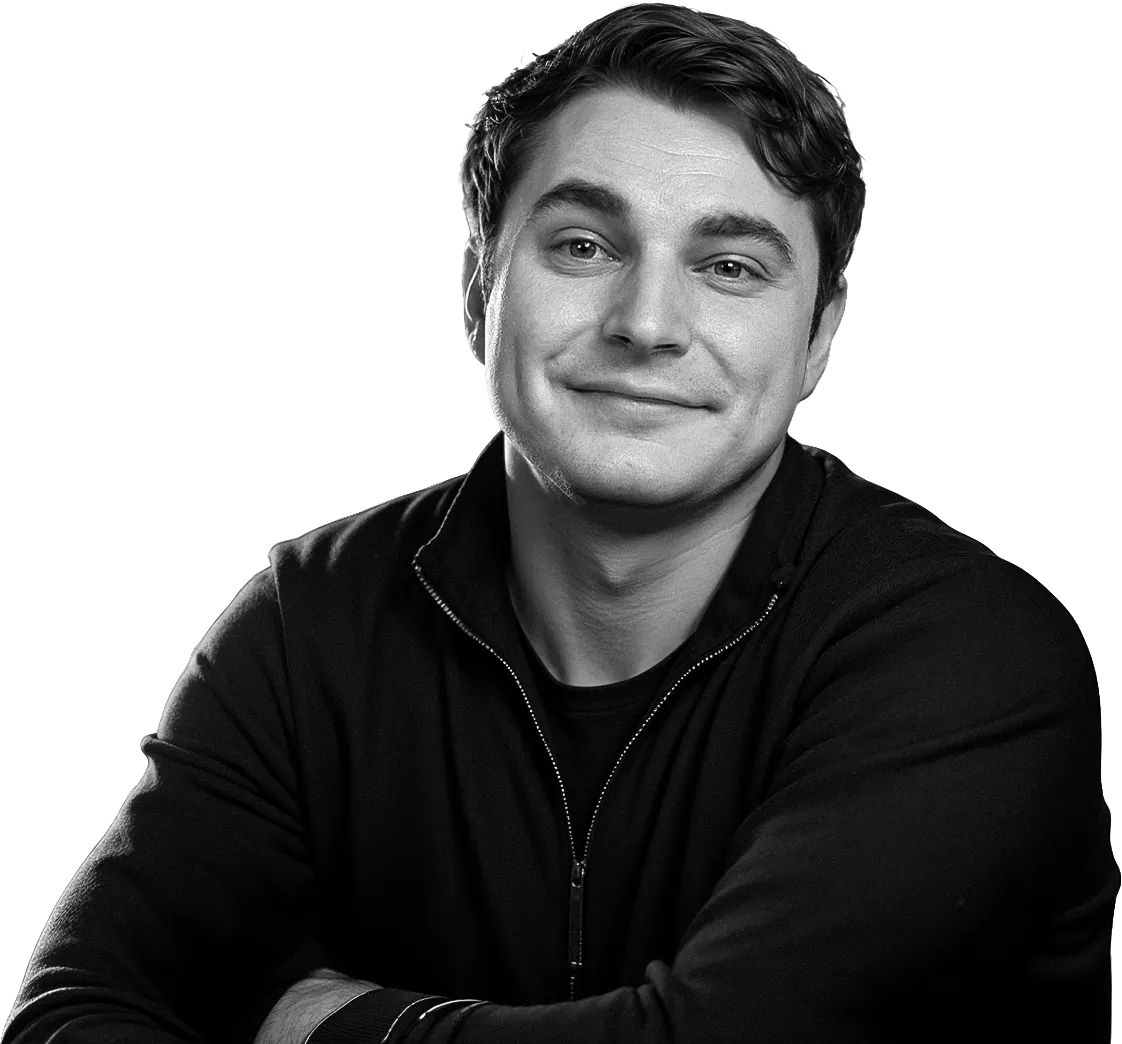
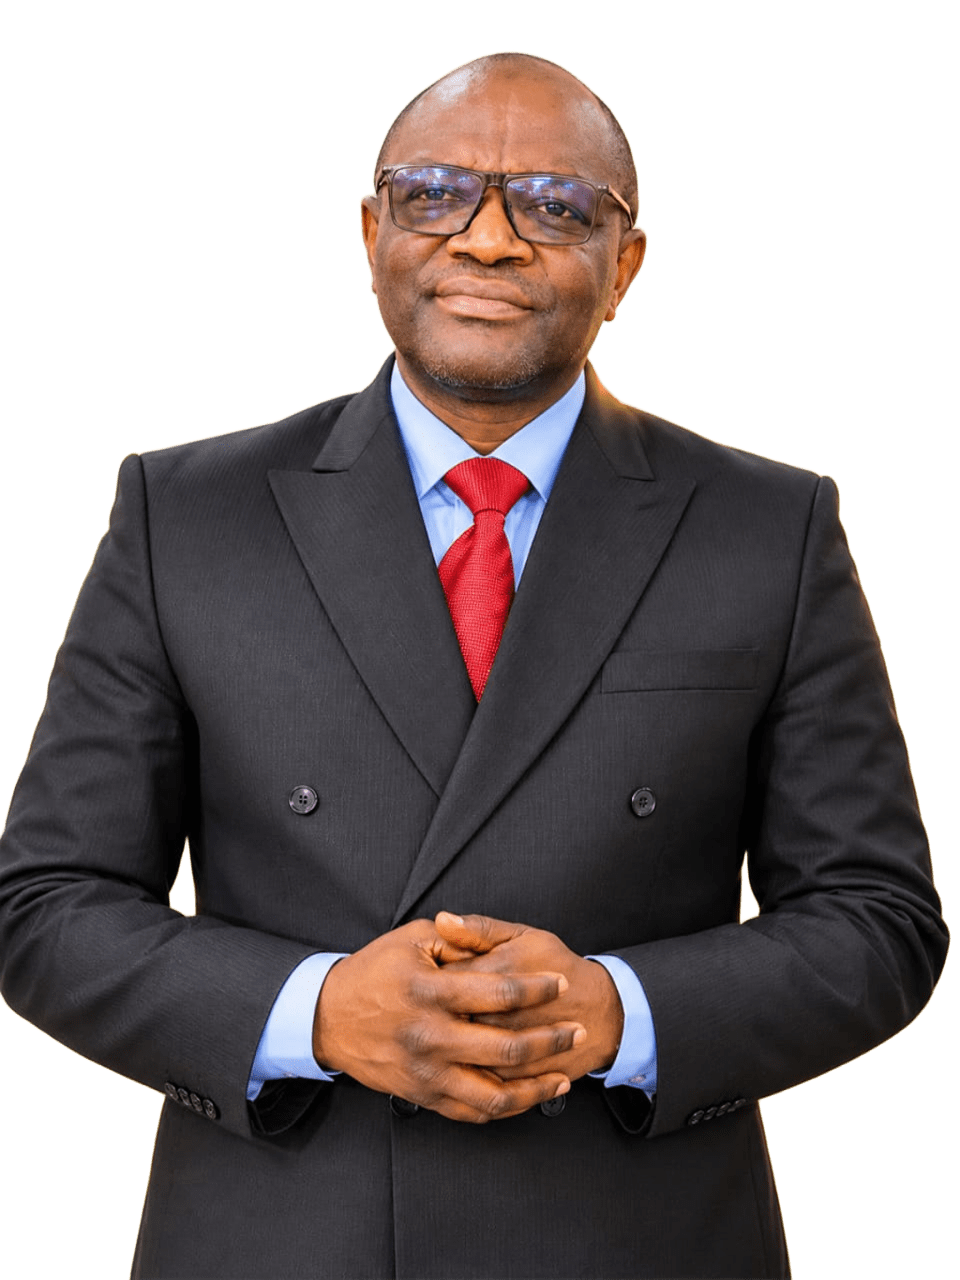
Use the new portrait (960x1280) in the hero and About card

diff --git a/src/components/site/about-card.tsx b/src/components/site/about-card.tsx
@@ -203,7 +203,7 @@ export function AboutCard({ copy, primaryHref, contactHref }: AboutCardProps) {
         <div className="relative flex items-end justify-center overflow-hidden px-6 lg:static lg:overflow-visible lg:px-0">
           <div
             data-about-portrait-frame
-            className="relative aspect-[1122/1044] w-full max-w-xs sm:max-w-sm lg:absolute lg:right-0 lg:bottom-0 lg:aspect-auto lg:h-[112%] lg:w-[42%] lg:max-w-none lg:[mask-image:linear-gradient(to_right,transparent,black_22%)] lg:[clip-path:inset(-60%_0%_0%_0%_round_0_0_2.5rem_0)]"
+            className="relative aspect-[3/4] w-full max-w-[15rem] sm:max-w-[18rem] lg:absolute lg:right-0 lg:bottom-0 lg:aspect-auto lg:h-[112%] lg:w-[42%] lg:max-w-none lg:[mask-image:linear-gradient(to_right,transparent,black_22%)] lg:[clip-path:inset(-60%_0%_0%_0%_round_0_0_2.5rem_0)]"
           >
             <div data-about-portrait className="relative size-full origin-bottom">
               <Image
@@ -211,8 +211,8 @@ export function AboutCard({ copy, primaryHref, contactHref }: AboutCardProps) {
                 alt={copy.portraitAlt}
                 fill
                 quality={90}
-                sizes="(min-width: 1024px) 840px, (min-width: 640px) 384px, 80vw"
-                className="object-cover object-[60%_0%]"
+                sizes="(min-width: 1024px) 480px, (min-width: 640px) 288px, 240px"
+                className="object-cover object-top"
               />
             </div>
           </div>

diff --git a/src/components/site/hero.tsx b/src/components/site/hero.tsx
@@ -121,14 +121,14 @@ export async function Hero({ locale, copy }: HeroProps) {
           </div>
 
           {/* Portrait */}
-          <div className="absolute bottom-0 left-1/2 z-10 w-[19rem] -translate-x-1/2 sm:w-[28rem] lg:w-[33rem]">
+          <div className="absolute bottom-0 left-1/2 z-10 w-[13.25rem] -translate-x-1/2 sm:w-[19.5rem] lg:w-[23rem]">
             <Image
               src="/images/PersonaImage.png"
               alt={copy.portraitAlt}
-              width={1122}
-              height={1044}
+              width={960}
+              height={1280}
               preload
-              sizes="(min-width: 1024px) 528px, (min-width: 640px) 448px, 304px"
+              sizes="(min-width: 1024px) 368px, (min-width: 640px) 312px, 212px"
               className="h-auto w-full animate-fade-up drop-shadow-[0_24px_40px_rgb(10_10_10/0.25)] [animation-delay:350ms]"
             />
           </div>
